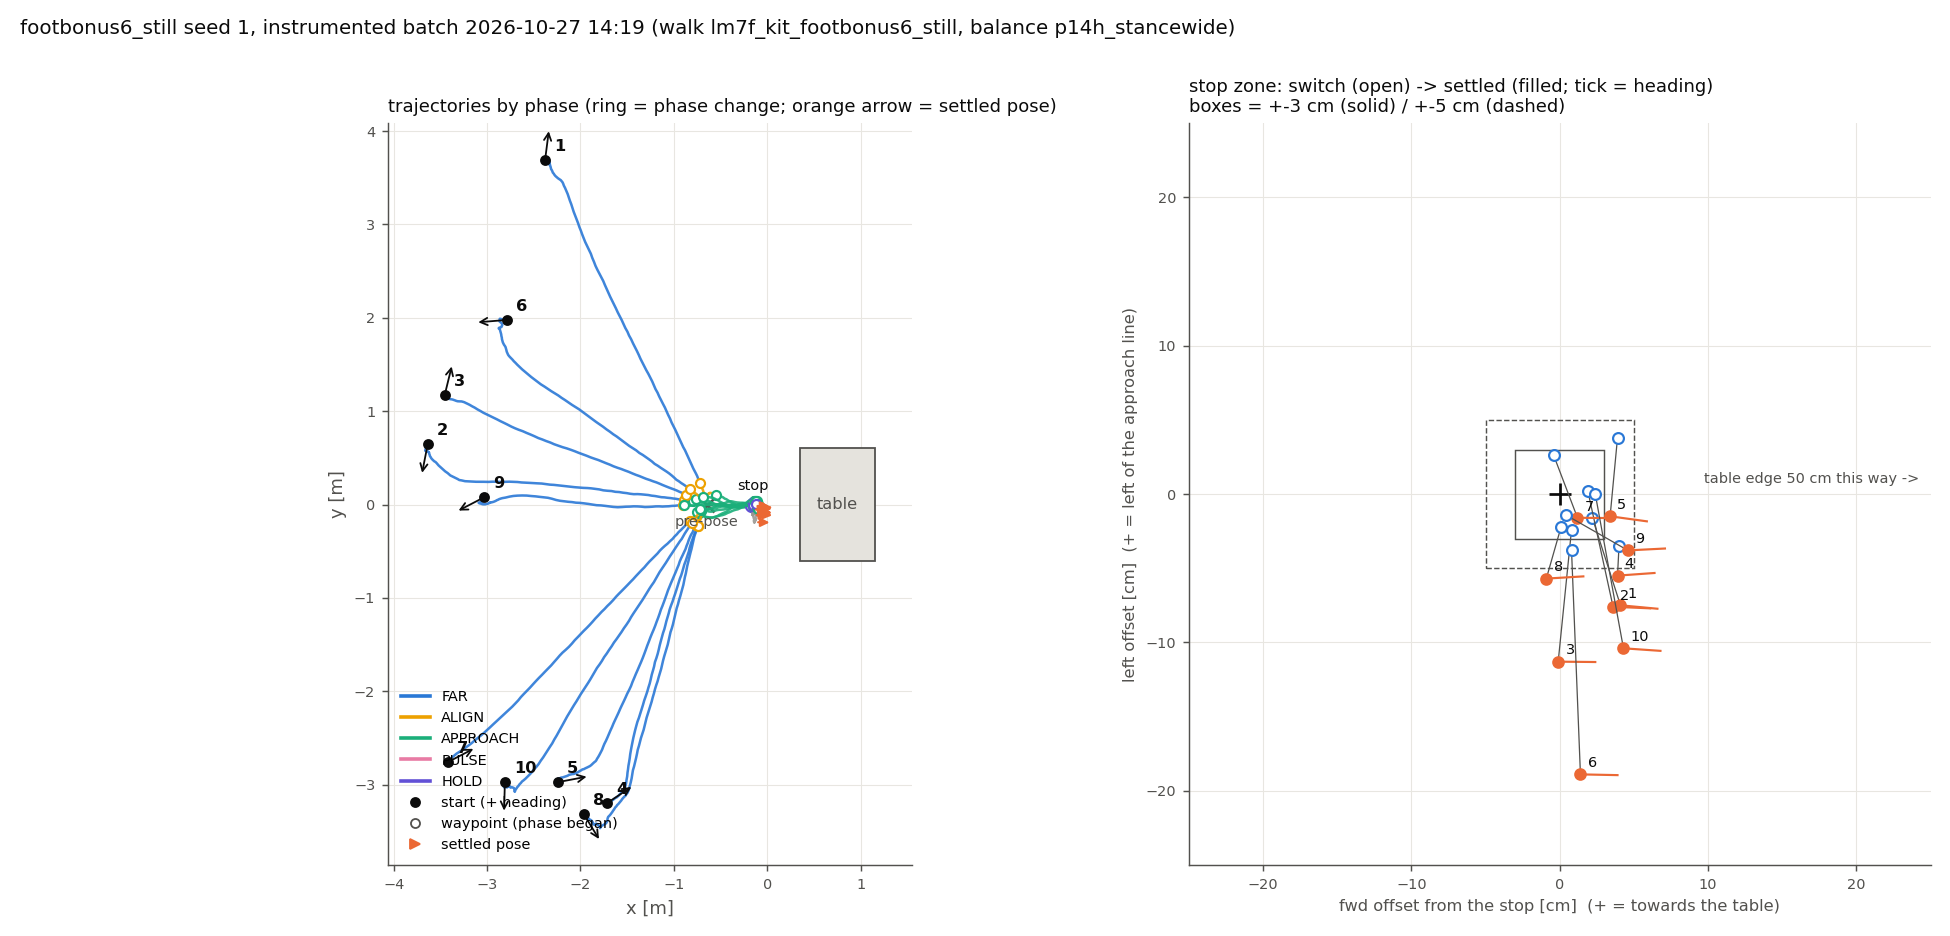
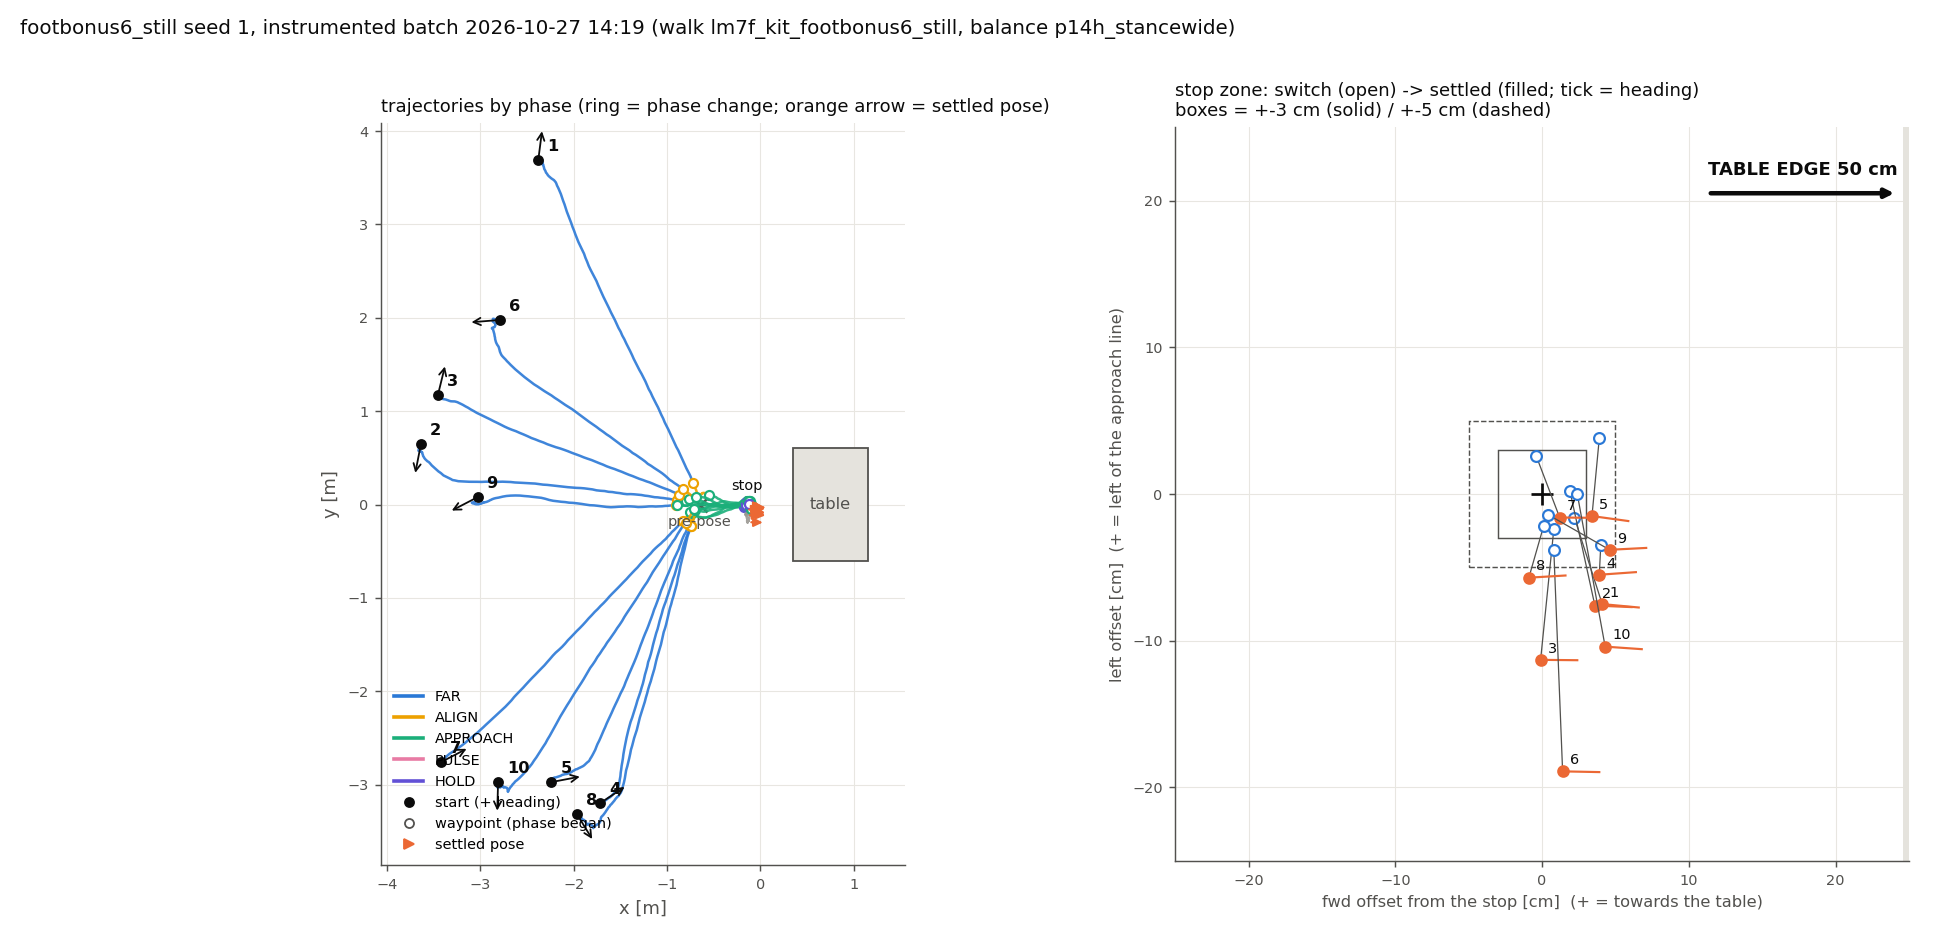
homing_plot: per-trial tracking score on the velocity sheet (gain = sum(v*sign(cmd))/sum|cmd| over steady active ticks, per sign for vy/wz, measured and sim truth, rms; track = 1 - mean|1-gain|; batch mean in the title) + a bold TABLE EDGE arrow in the stop-zone inset

diff --git a/mujoco_sim/tools/homing_plot.py b/mujoco_sim/tools/homing_plot.py
@@ -135,7 +135,9 @@ def plot_map(rows, trajs, out, title):
     lim = max(12.0, math.ceil(1.15 * max(offs) / 5) * 5) if offs else 20.0
     az.set_xlim(-lim, lim); az.set_ylim(-lim, lim)
     edge = (STOP_DIST_M + TORSO_FRONT_M) * 100
-    az.annotate(f"table edge {edge:.0f} cm this way ->", (lim, 0), xytext=(-6, 6), textcoords="offset points", ha="right", fontsize=8, color=C["muted"])
+    az.annotate("", xy=(0.97 * lim, 0.82 * lim), xytext=(0.45 * lim, 0.82 * lim), arrowprops=dict(arrowstyle="-|>", color=C["ink"], lw=2.5))
+    az.text(0.71 * lim, 0.86 * lim, f"TABLE EDGE {edge:.0f} cm", ha="center", va="bottom", fontsize=10, fontweight="bold", color=C["ink"])
+    az.axvspan(0.985 * lim, lim, color=C["table"], lw=0)
     az.set_xlabel("fwd offset from the stop [cm]  (+ = towards the table)", color=C["muted"], fontsize=9)
     az.set_ylabel("left offset [cm]  (+ = left of the approach line)", color=C["muted"], fontsize=9)
     az.set_title("stop zone: switch (open) -> settled (filled; tick = heading)\nboxes = +-3 cm (solid) / +-5 cm (dashed)", fontsize=10, color=C["ink"], loc="left")
@@ -143,6 +145,33 @@ def plot_map(rows, trajs, out, title):
     fig.tight_layout(rect=(0, 0, 1, 0.96))
     fig.savefig(out + "_map.png", dpi=130); plt.close(fig)
     return out + "_map.png"
+
+
+TRACK_THR = (0.1, 0.08, 0.3)      # a command counts as active above this (vx m/s, vy m/s, wz rad/s)
+
+
+def tracking(d, hz=10.0):
+    """per channel: gain = sum(v_meas * sign(cmd)) / sum(|cmd|) over STEADY active ticks (command unchanged for 0.5 s, so the
+    estimator lag drops out), split by sign for vy / wz; rms = sqrt(mean((cmd - meas)^2)); the same for the sim truth.
+    score = 1 - mean(|1 - gain|) over the channels/signs with data (1 = perfect tracking, 0 = no response)."""
+    k = max(1, int(round(0.5 * hz)))
+    out = {}
+    for c, (kc, km, ko) in enumerate((("cmd_vx", "mvx", "ovx"), ("cmd_vy", "mvy", "ovy"), ("cmd_wz", "mwz", "owz"))):
+        cmd, mv, ov = d[kc], d[km], d[ko]
+        steady = np.array([bool(np.all(np.abs(cmd[max(0, i - k):i + 1] - cmd[i]) < 0.02)) for i in range(len(cmd))])
+        for sgn, name in ((1, "+"), (-1, "-")):
+            s = steady & (sgn * cmd >= TRACK_THR[c]) & np.isfinite(mv)
+            if s.sum() < 3:
+                continue
+            g = float(np.sum(mv[s] * sgn) / np.sum(np.abs(cmd[s])))
+            e = {"gain": g, "rms": float(np.sqrt(np.mean((cmd[s] - mv[s]) ** 2))), "n": int(s.sum())}
+            st = s & np.isfinite(ov)
+            if st.sum() >= 3:
+                e["gain_truth"] = float(np.sum(ov[st] * sgn) / np.sum(np.abs(cmd[st])))
+            out[(c, name)] = e
+    errs = [abs(1 - e["gain"]) for e in out.values()]
+    out["score"] = max(0.0, 1.0 - float(np.mean(errs))) if errs else None
+    return out
 
 
 def plot_velocity(rows, trajs, out, title):
@@ -155,8 +184,17 @@ def plot_velocity(rows, trajs, out, title):
     cols = (("cmd_vx", "mvx", "ovx", "vx [m/s]"), ("cmd_vy", "mvy", "ovy", "vy [m/s]"), ("cmd_wz", "mwz", "owz", "wz [rad/s]"))
     for i, (r, d) in enumerate(sel):
         t = d["t"]
+        tr = tracking(d)
         for j, (kc, km, ko, lab) in enumerate(cols):
             ax = axs[i, j]
+            parts = []
+            for name in ("+", "-"):
+                e = tr.get((j, name))
+                if e:
+                    tag = {"+": "L" if j else "", "-": "R"}[name] if j else ""
+                    parts.append(f"gain{(' ' + tag) if tag else ''} {e['gain']:.2f}" + (f" (truth {e['gain_truth']:.2f})" if "gain_truth" in e else "") + f" rms {e['rms']:.2f}")
+            ax.text(0.01, 0.97, " | ".join(parts) if parts else "no steady active command", transform=ax.transAxes, fontsize=6.5, va="top", ha="left",
+                    color=C["ink"], bbox=dict(fc="white", ec="none", alpha=0.75, pad=1.5))
             named = set()
             for p, i0, i1 in runs(d["phase"]):
                 t1 = t[i1 + 1] if i1 + 1 < len(t) else t[i1] + 0.1
@@ -172,14 +210,18 @@ def plot_velocity(rows, trajs, out, title):
                 ax.axvline(r["t_switch"], color=C["muted"], ls="--", lw=0.8)
             ax.set_xlim(0, tmax); style(ax)
             if j == 0:
-                ax.set_ylabel(f"trial {r['trial']}\n{lab}", fontsize=8, color=C["ink"])
+                sc = tr.get("score")
+                ax.set_ylabel(f"trial {r['trial']}" + (f"  track {sc:.2f}" if sc is not None else "") + f"\n{lab}", fontsize=8, color=C["ink"])
             else:
                 ax.set_ylabel(lab, fontsize=8, color=C["muted"])
             if i == n - 1:
                 ax.set_xlabel("t since goto [s]", fontsize=8, color=C["muted"])
             if i == 0 and j == 2:
                 ax.legend(fontsize=7, loc="upper right", frameon=False)
-    fig.suptitle(title + "\nvelocities: commanded (blue) vs measured (orange) vs sim truth (grey); bands = phases; dashed = balance active", fontsize=10, color=C["ink"], x=0.01, ha="left")
+    scores = [tracking(d)["score"] for _, d in sel if tracking(d)["score"] is not None]
+    fig.suptitle(title + "\nvelocities: commanded (blue) vs measured (orange) vs sim truth (grey); bands = phases; dashed = balance active; "
+                 f"track = 1 - mean|1 - gain| over steady active commands (batch mean {np.mean(scores):.2f})" if scores else title,
+                 fontsize=10, color=C["ink"], x=0.01, ha="left")
     fig.tight_layout(rect=(0, 0, 1, 0.97))
     fig.savefig(out + "_velocity.png", dpi=120); plt.close(fig)
     return out + "_velocity.png"
